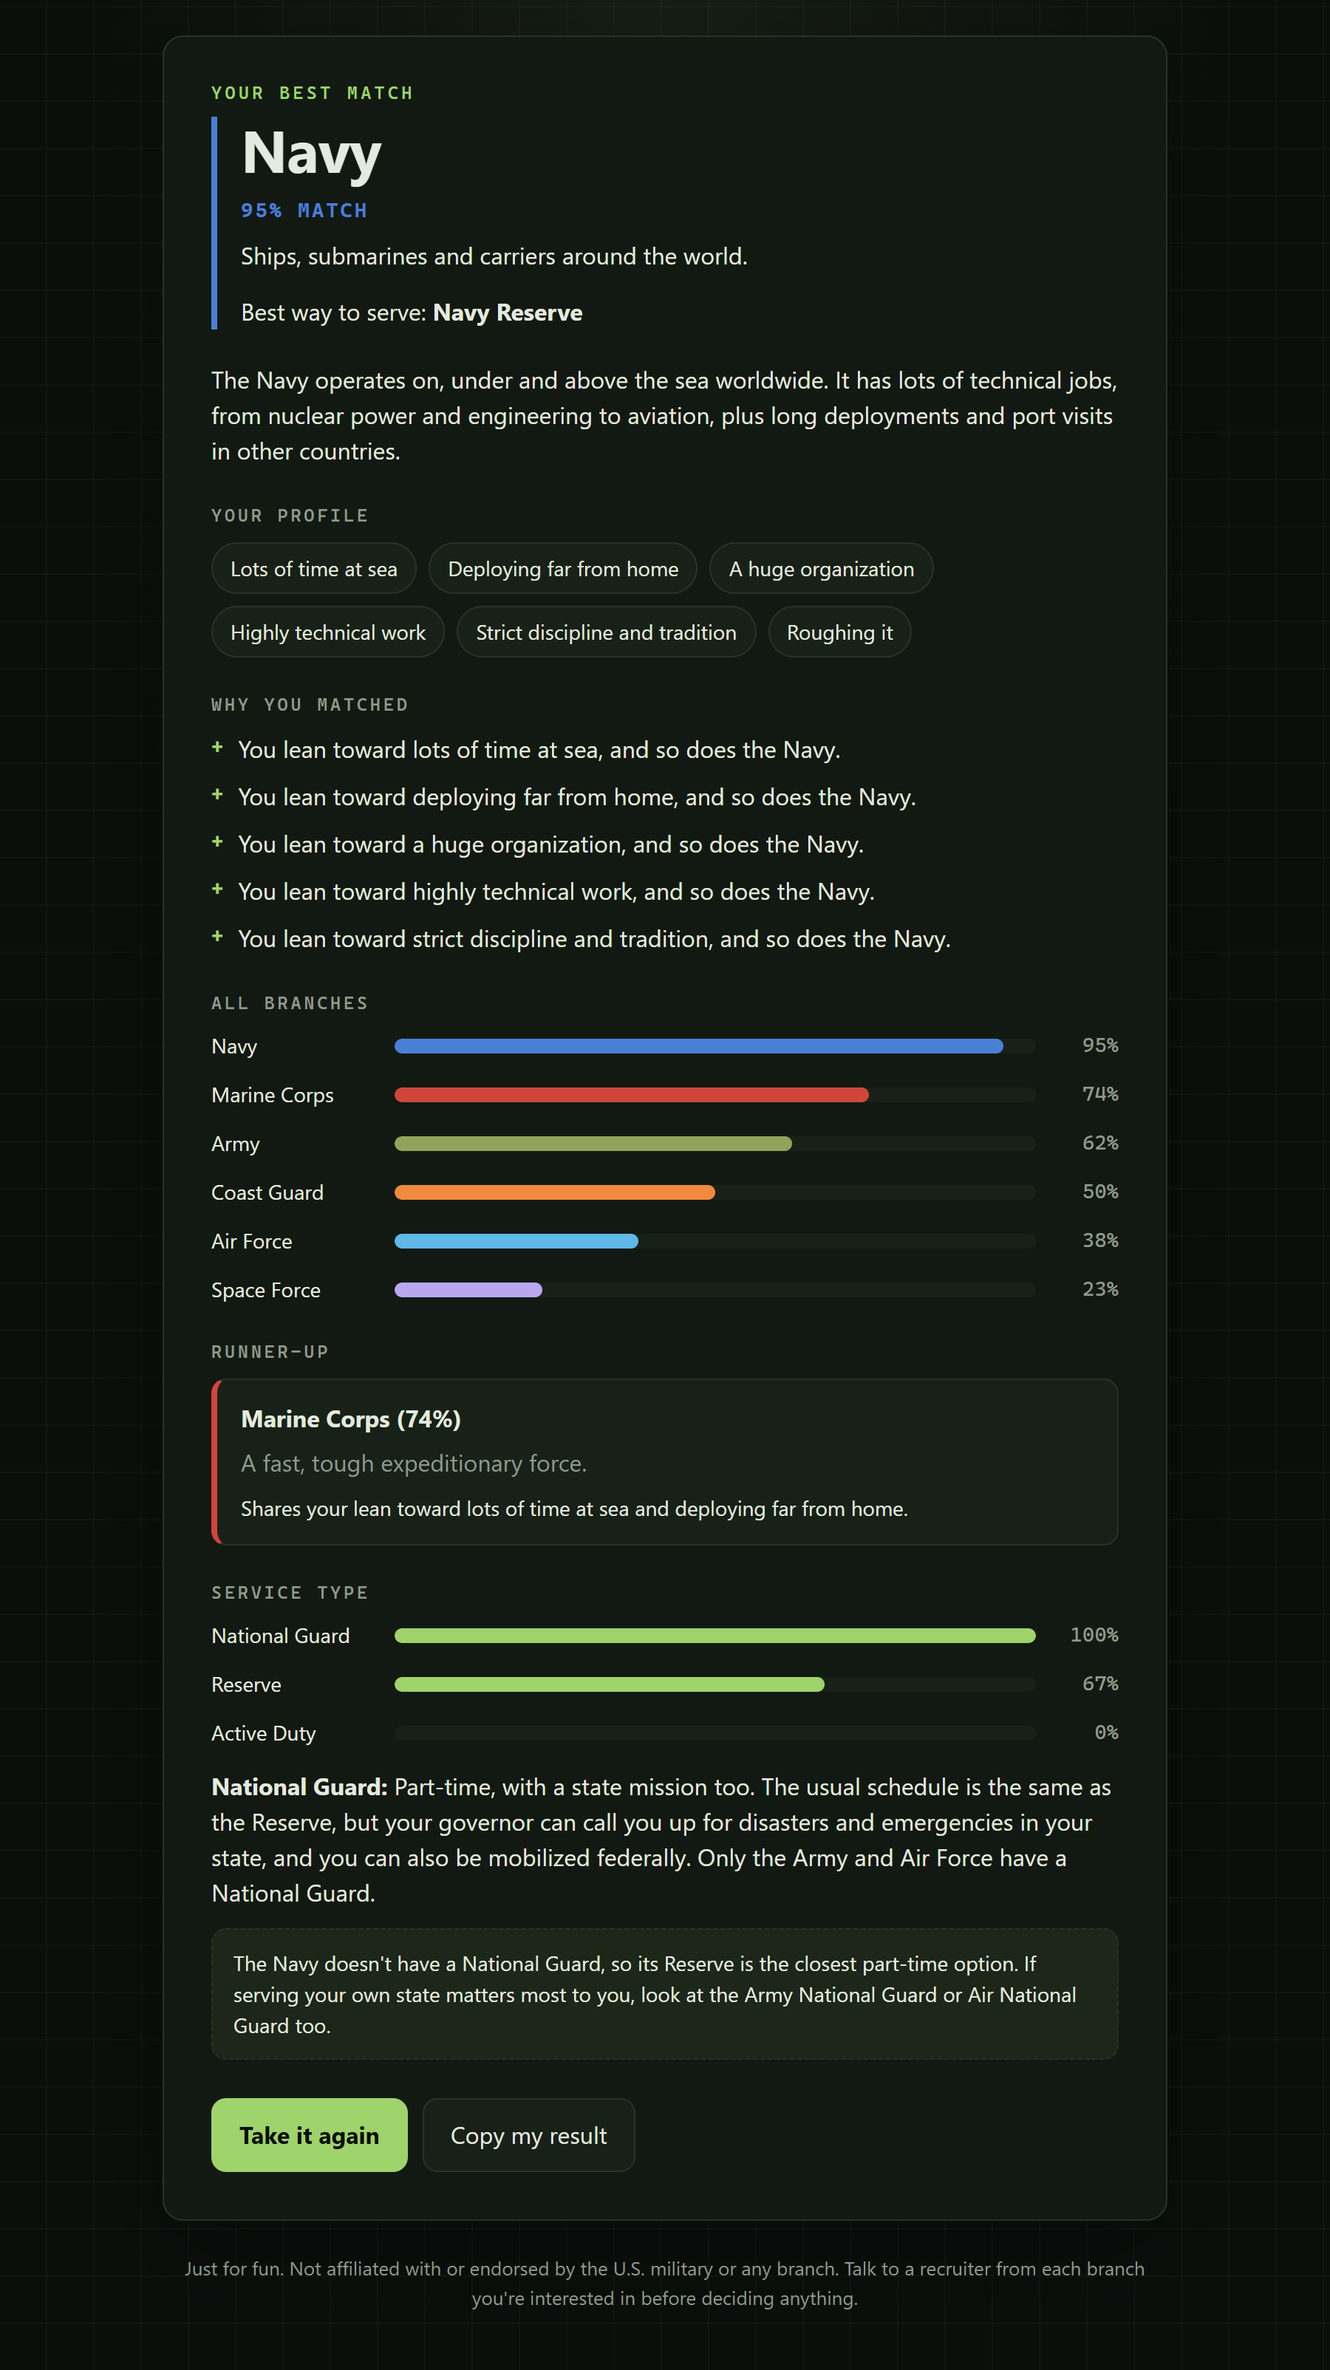
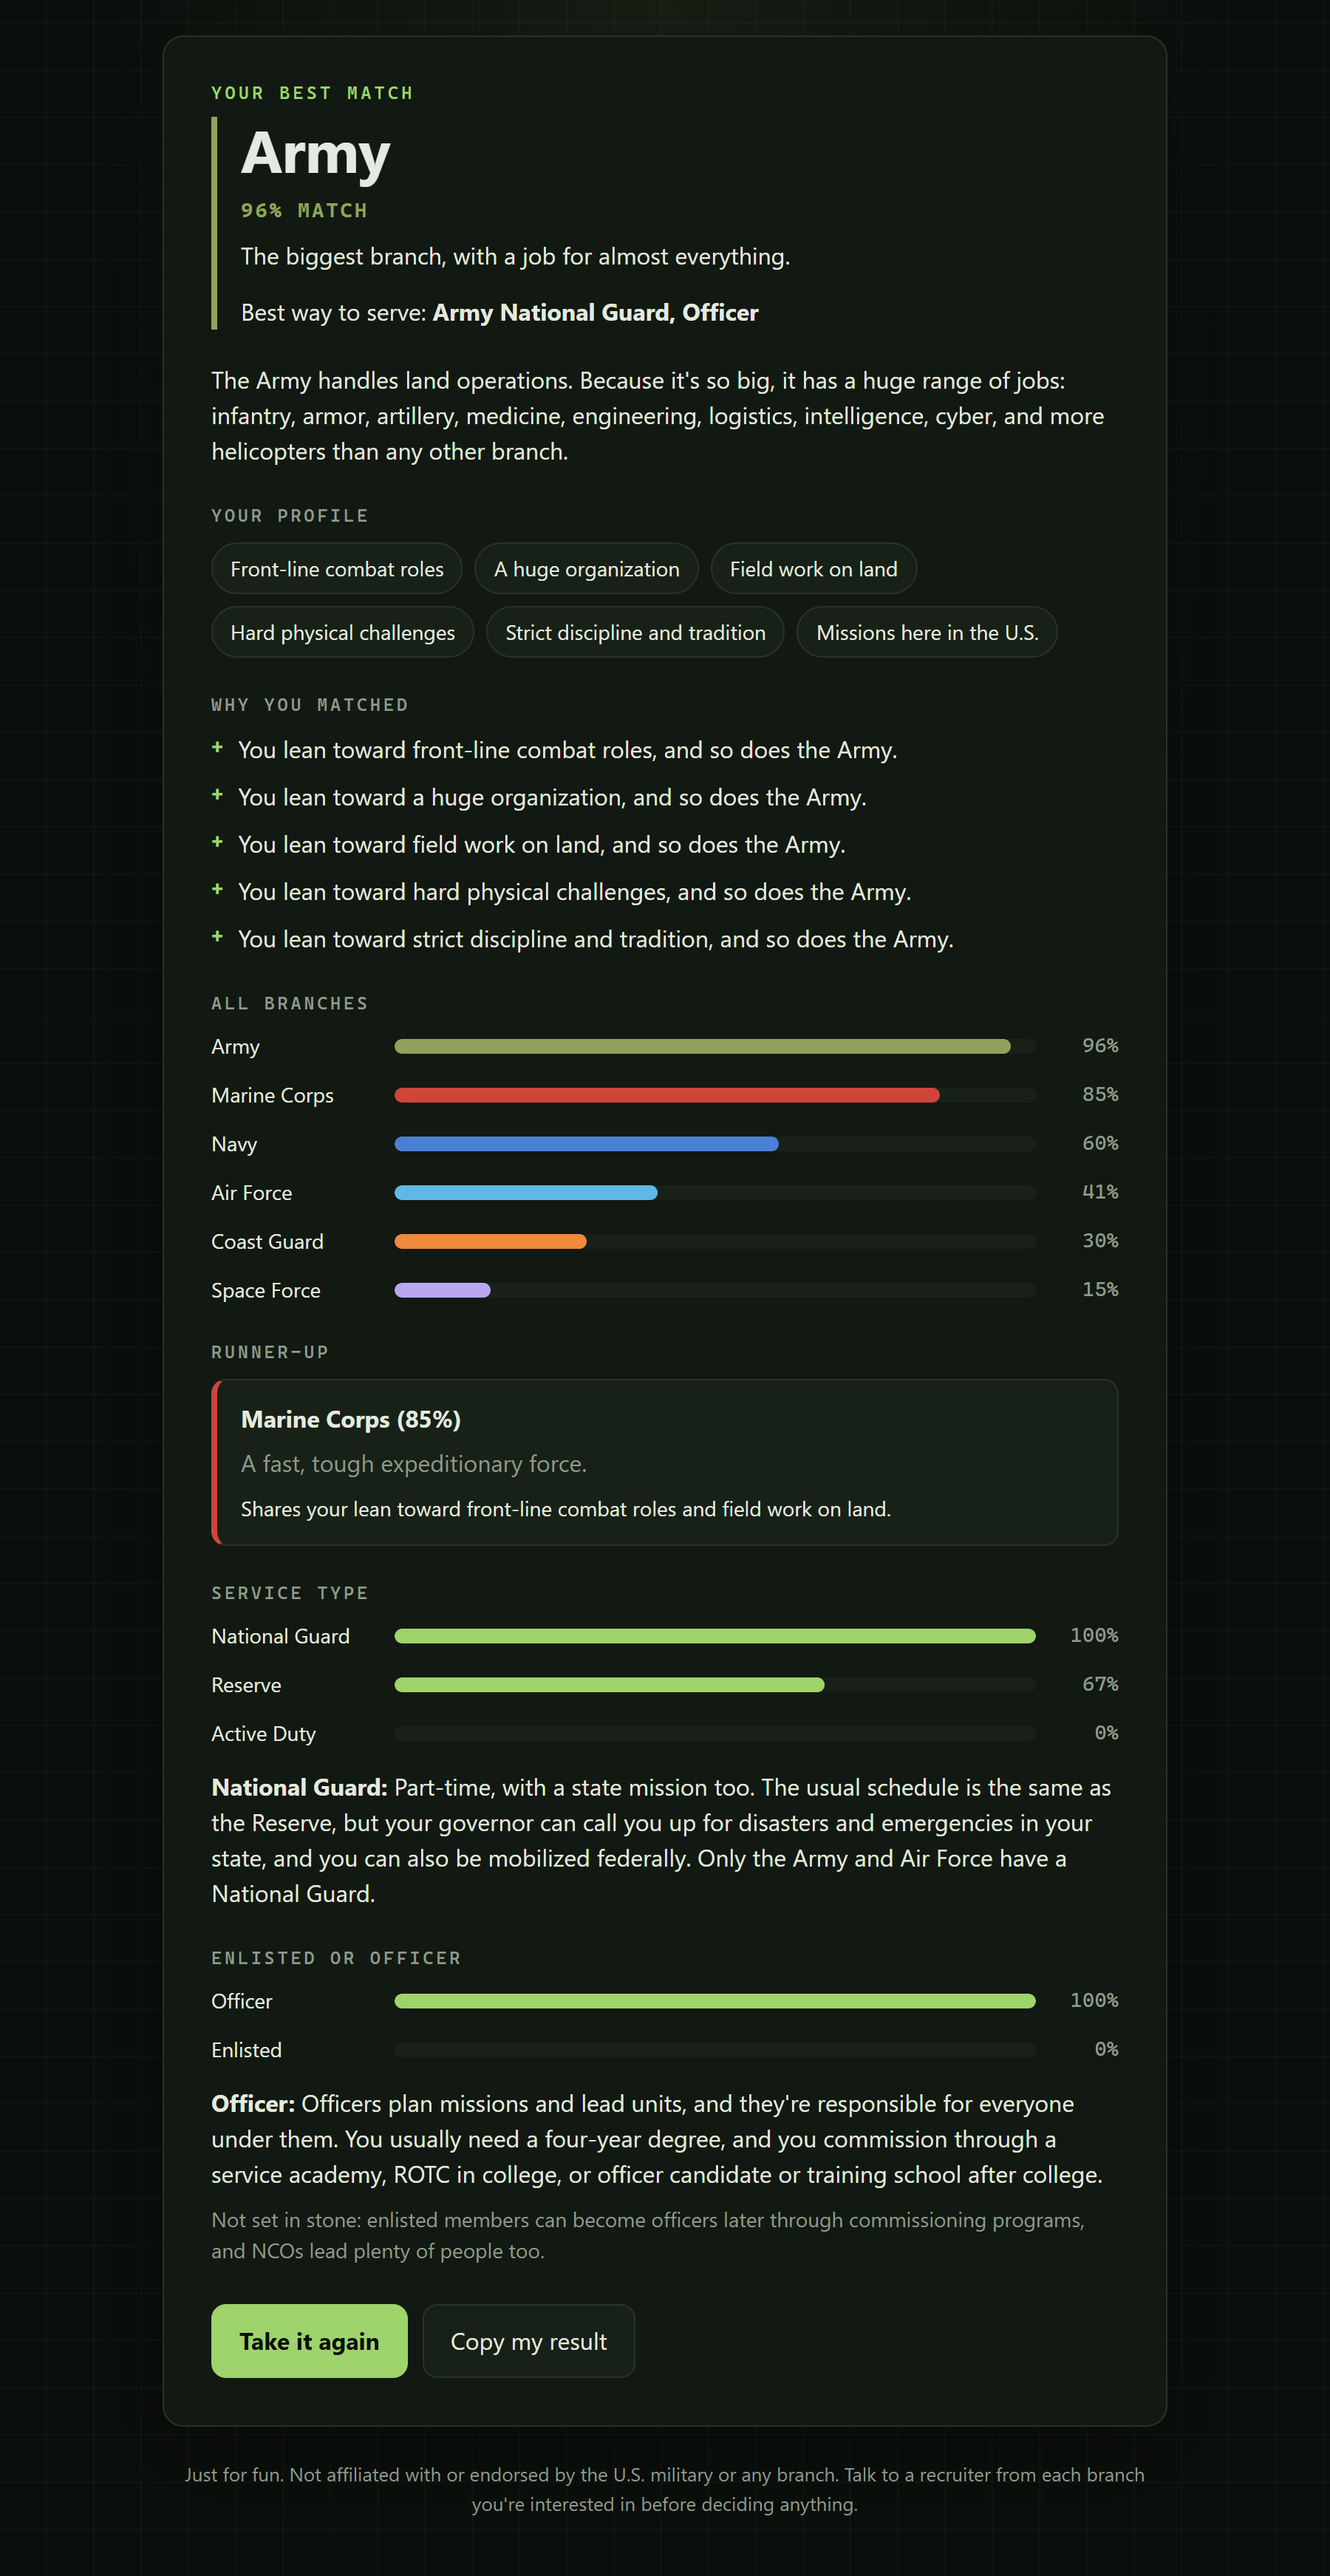
Rename to Ranked Bingo and add enlisted vs officer scoring

Changed region(s): [[0.1556, 0.0312, 0.8711, 0.9975], [0.8089, 0.4052, 0.84, 0.5299], [0.8089, 0.6234, 0.84, 0.6546]]

diff --git a/index.html b/index.html
@@ -3,7 +3,7 @@
 <head>
 <meta charset="utf-8">
 <meta name="viewport" content="width=device-width, initial-scale=1">
-<title>Branch Finder</title>
+<title>Ranked Bingo</title>
 <meta name="description" content="Answer questions about how you live, work and think to see which U.S. military branch fits you best.">
 <style>
   :root {
@@ -409,6 +409,32 @@ const QUESTIONS = [
     { t: "Not very", w: { travel: 1 } },
     { t: "I want to move far away", w: { travel: 2 } },
   ] },
+  // Role questions also score tracks (k): enlisted or officer.
+  { topic: "Role", q: "Do you plan to get a four-year college degree?", options: [
+    { t: "Yes, before I join", w: {}, k: { officer: 2 } },
+    { t: "Maybe, later or while I serve", w: {}, k: { enlisted: 1, officer: 1 } },
+    { t: "No, I want to start right after high school", w: {}, k: { enlisted: 2 } },
+  ] },
+  { topic: "Role", q: "In a group project, you're usually the one who...", options: [
+    { t: "Plans it and hands out the tasks", w: {}, k: { officer: 2 } },
+    { t: "Actually gets the work done", w: {}, k: { enlisted: 2 } },
+    { t: "Becomes the expert on one part of it", w: { tech: 1 }, k: { enlisted: 1 } },
+    { t: "Keeps everyone motivated and on track", w: {}, k: { officer: 1, enlisted: 1 } },
+  ] },
+  { topic: "Role", q: "Would you rather...", options: [
+    { t: "Master a specific skill and be the go-to person for it", w: {}, k: { enlisted: 2 } },
+    { t: "Lead a team and be responsible for its results", w: {}, k: { officer: 2 } },
+  ] },
+  { topic: "Role", q: "Your team messes up and you're the one who has to answer for it. How does that feel?", options: [
+    { t: "That's part of leading. I'm in", w: {}, k: { officer: 2 } },
+    { t: "Fair, if I was in charge", w: {}, k: { officer: 1, enlisted: 1 } },
+    { t: "I'd rather just be responsible for my own work", w: {}, k: { enlisted: 2 } },
+  ] },
+  { topic: "Role", q: "Planning meetings, briefings and paperwork:", options: [
+    { t: "Fine with me. Someone has to run things", w: { comfort: 1 }, k: { officer: 2 } },
+    { t: "Okay in small doses", w: {}, k: { officer: 1, enlisted: 1 } },
+    { t: "I'd rather be out doing the actual job", w: { physical: 1 }, k: { enlisted: 2 } },
+  ] },
   // Service type questions also score components (c): active duty, reserve, guard.
   { topic: "Service type", q: "How big a part of your life do you want the military to be?", options: [
     { t: "All of it. It's my full-time job", w: {}, c: { active: 2 } },
@@ -454,6 +480,19 @@ const COMPONENTS = {
 
 const COMPONENT_ORDER = ["active", "reserve", "guard"];
 
+const TRACKS = {
+  enlisted: {
+    name: "Enlisted",
+    about: "Most of the military. You join with a high school diploma, train for a specific job and do the hands-on work. As you get promoted you become a noncommissioned officer (NCO) and lead the people doing that work.",
+  },
+  officer: {
+    name: "Officer",
+    about: "Officers plan missions and lead units, and they're responsible for everyone under them. You usually need a four-year degree, and you commission through a service academy, ROTC in college, or officer candidate or training school after college.",
+  },
+};
+
+const TRACK_ORDER = ["enlisted", "officer"];
+
 const TRAIT_IDS = Object.keys(TRAITS);
 
 // The user's profile is the average nudge per trait. Traits answered more
@@ -496,20 +535,27 @@ function score(answers) {
     .sort((a, b) => b.raw - a.raw || ORDER.indexOf(a.id) - ORDER.indexOf(b.id));
 }
 
-const COMPONENT_MAX = Object.fromEntries(COMPONENT_ORDER.map((k) => [
-  k,
-  QUESTIONS.reduce((sum, q) => sum + Math.max(0, ...q.options.map((o) => (o.c && o.c[k]) || 0)), 0),
-]));
+// Scores a set of options (components or tracks) stored under `field` on each
+// answer, as a share of the most each option could have earned.
+function categoryScore(answers, field, ids) {
+  const raw = Object.fromEntries(ids.map((k) => [k, 0]));
+  const max = Object.fromEntries(ids.map((k) => [k, 0]));
+  QUESTIONS.forEach((q, i) => {
+    for (const k of ids) max[k] += Math.max(0, ...q.options.map((o) => (o[field] && o[field][k]) || 0));
+    const picked = answers[i] == null ? {} : q.options[answers[i]][field] || {};
+    for (const k of ids) raw[k] += picked[k] || 0;
+  });
+  return ids
+    .map((k) => ({ id: k, pct: max[k] ? Math.round((raw[k] / max[k]) * 100) : 0 }))
+    .sort((a, b) => b.pct - a.pct || ids.indexOf(a.id) - ids.indexOf(b.id));
+}
 
 function componentScore(answers) {
-  const raw = Object.fromEntries(COMPONENT_ORDER.map((k) => [k, 0]));
-  answers.forEach((idx, i) => {
-    const c = QUESTIONS[i].options[idx].c || {};
-    for (const k of COMPONENT_ORDER) raw[k] += c[k] || 0;
-  });
-  return COMPONENT_ORDER
-    .map((k) => ({ id: k, pct: Math.round((raw[k] / COMPONENT_MAX[k]) * 100) }))
-    .sort((a, b) => b.pct - a.pct || COMPONENT_ORDER.indexOf(a.id) - COMPONENT_ORDER.indexOf(b.id));
+  return categoryScore(answers, "c", COMPONENT_ORDER);
+}
+
+function trackScore(answers) {
+  return categoryScore(answers, "k", TRACK_ORDER);
 }
 
 // Turns a branch and component into a real service option. Only the Army and
@@ -588,10 +634,10 @@ function render() {
 
 function renderIntro() {
   app.append(el("div", { class: "card fade-in" },
-    el("div", { class: "eyebrow" }, "Branch Finder"),
+    el("div", { class: "eyebrow" }, "Ranked Bingo"),
     el("h1", {}, "Which military branch fits you?"),
     el("p", { class: "muted" },
-      `${QUESTIONS.length} questions about how you like to live, work, train and think. No single answer decides anything: each one shifts a set of traits, and you're matched to the branch whose overall profile is closest to yours. The last few questions decide between Active Duty, the Reserve and the National Guard.`),
+      `${QUESTIONS.length} questions about how you like to live, work, train and think. No single answer decides anything: each one shifts a set of traits, and you're matched to the branch whose overall profile is closest to yours. The last few questions decide enlisted or officer, and Active Duty, the Reserve or the National Guard.`),
     el("div", { class: "chips branch-strip" },
       ORDER.map((b) => el("span", { class: "chip" },
         el("span", { class: "dot", style: `background:${BRANCHES[b].color}` }), BRANCHES[b].name))),
@@ -657,6 +703,8 @@ function renderResults() {
   const headsUp = clashes(user, top.id).slice(0, 3);
   const components = componentScore(state.answers);
   const option = serviceOption(top.id, components[0].id);
+  const tracks = trackScore(state.answers);
+  const track = TRACKS[tracks[0].id];
   const strongest = Object.entries(user)
     .filter(([, u]) => Math.abs(u.value) >= 1)
     .sort((a, b) => b[1].weight * Math.abs(b[1].value) - a[1].weight * Math.abs(a[1].value))
@@ -691,7 +739,7 @@ function renderResults() {
       el("h1", {}, info.name),
       el("div", { class: "pct" }, `${top.pct}% MATCH`),
       el("p", { style: "margin-top:12px" }, info.tagline),
-      el("p", { style: "margin:0" }, "Best way to serve: ", el("strong", {}, option.title))),
+      el("p", { style: "margin:0" }, "Best way to serve: ", el("strong", {}, `${option.title}, ${track.name}`))),
     el("p", {}, info.about),
 
     strongest.length ? [
@@ -731,6 +779,19 @@ function renderResults() {
     el("p", { style: "margin:14px 0 0" }, el("strong", {}, COMPONENTS[components[0].id].name + ": "), COMPONENTS[components[0].id].about),
     option.note ? el("div", { class: "note", style: "margin-top:12px" }, option.note) : null,
 
+    el("div", { class: "section-title" }, "Enlisted or officer"),
+    el("div", { class: "bars" }, tracks.map((r) => {
+      const fill = el("div", { style: "background:var(--accent)" });
+      requestAnimationFrame(() => requestAnimationFrame(() => { fill.style.width = r.pct + "%"; }));
+      return el("div", { class: "bar-row" },
+        el("span", {}, TRACKS[r.id].name),
+        el("div", { class: "bar", role: "img", "aria-label": `${TRACKS[r.id].name} ${r.pct}%` }, fill),
+        el("span", { class: "num" }, r.pct + "%"));
+    })),
+    el("p", { style: "margin:14px 0 0" }, el("strong", {}, track.name + ": "), track.about),
+    el("p", { class: "muted", style: "margin:8px 0 0; font-size:14px" },
+      "Not set in stone: enlisted members can become officers later through commissioning programs, and NCOs lead plenty of people too."),
+
     el("div", { class: "actions" },
       el("button", { class: "primary", onclick: restart }, "Take it again"),
       el("button", { onclick: copyResult }, "Copy my result")),
@@ -746,7 +807,8 @@ function restart() {
 async function copyResult(e) {
   const ranked = score(state.answers);
   const option = serviceOption(ranked[0].id, componentScore(state.answers)[0].id);
-  const text = `My Branch Finder result: ${option.title}\n` +
+  const track = TRACKS[trackScore(state.answers)[0].id];
+  const text = `My Ranked Bingo result: ${option.title}, ${track.name}\n` +
     ranked.map((r) => `${BRANCHES[r.id].name}: ${r.pct}%`).join("\n");
   const btn = e.currentTarget;
   try {
@@ -768,7 +830,7 @@ document.addEventListener("keydown", (e) => {
 });
 
 // Exposed for automated checks.
-window.branchQuiz = { QUESTIONS, BRANCHES, ORDER, TRAITS, profile, score, fits, clashes, componentScore, serviceOption, state, render };
+window.branchQuiz = { QUESTIONS, BRANCHES, ORDER, TRAITS, profile, score, fits, clashes, componentScore, trackScore, serviceOption, state, render };
 
 render();
 </script>

diff --git a/README.md b/README.md
@@ -1,18 +1,19 @@
-# Branch Finder
+# Ranked Bingo
 
-A quiz that matches you to the U.S. military branch that fits you best (Army, Marine Corps, Navy, Air Force, Space Force or Coast Guard), and to Active Duty, the Reserve or the National Guard.
+A quiz that matches you to the U.S. military branch that fits you best (Army, Marine Corps, Navy, Air Force, Space Force or Coast Guard), to enlisted or officer, and to Active Duty, the Reserve or the National Guard.
 
-**Take it:** https://samuelarther.github.io/branch-quiz/
+**Take it:** https://samuelarther.github.io/rankedbingo/
 
 ![Results](screenshots/3-results-desktop.png)
 
 ## How it works
 
-- 30 questions, most of them indirect: weekend trips, game picks, how you handle an order you disagree with, boot camp style, what you want after you get out.
+- 35 questions, most of them indirect: weekend trips, game picks, how you handle an order you disagree with, boot camp style, what you want after you get out.
 - No answer points straight at a branch. Each one nudges up to three of 12 traits: sea, land, air, space, physical, tech, discipline, travel, home missions, combat, organization size and comfort.
 - Each branch has a profile on the same traits. Your match is the cosine similarity between your leanings and each branch profile, so balanced profiles don't win by default.
 - Results show your top branch, scores for all six, your trait profile, why you matched, where you don't fit, and any other branch within 10 points.
-- The last five questions score Active Duty, Reserve and National Guard separately. The result is always a real option: only the Army and Air Force have a National Guard, and the Space Force has no separate Reserve, so those cases fall back to the closest option with a note.
+- Five role questions score enlisted vs officer, and five service-type questions score Active Duty, Reserve and National Guard.
+- The final pick is always a real option, like "Air National Guard, Enlisted". Only the Army and Air Force have a National Guard, and the Space Force has no separate Reserve, so those cases fall back to the closest option with a note.
 
 Everything runs in one offline HTML file (`index.html`) with no dependencies or tracking.
 
